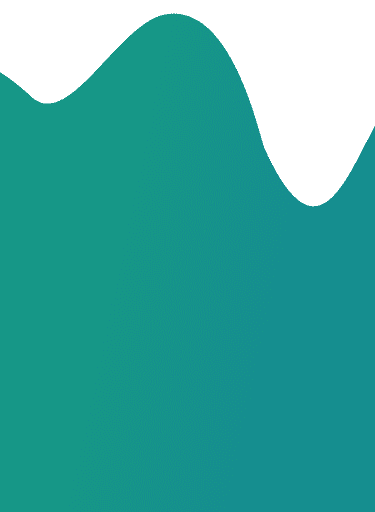
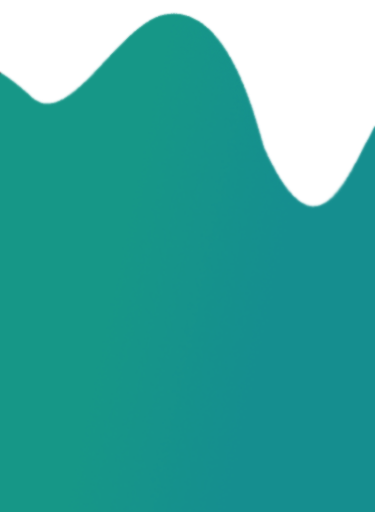
optimized images

diff --git a/index.html b/index.html
@@ -7,6 +7,7 @@
     <meta name="description" content="Рекрутинговое агентство IN-WORKER">
 
     <title>IN-WORKER</title>
+    <link rel="shortcut icon" href="assets/img/favicon.ico" />
 
     <link rel="stylesheet" href="assets/css/style.css">
 

diff --git a/php/formhandler.php b/php/formhandler.php
@@ -1,7 +1,7 @@
 <?php
 $to = "mail@in-worker.net.ua";
 $subject = "Заявка с сайта";
-$headers = "From: message@feleton.com";
+$headers = "From: message@in-worker.net.ua";
 
 if (
 
@@ -26,7 +26,8 @@ isset($_POST["massage"])
     echo json_encode($result); 
 
     foreach ($result as $key => $value) {
-        $txt_for_mail .= $key . ": " . $value ."\n";
+        $txt_for_mail .= $key . ": " . $value ."\n";npm install sass-autoprefixer
+
  }
 
   mail($to, $subject, $txt_for_mail, $headers);
